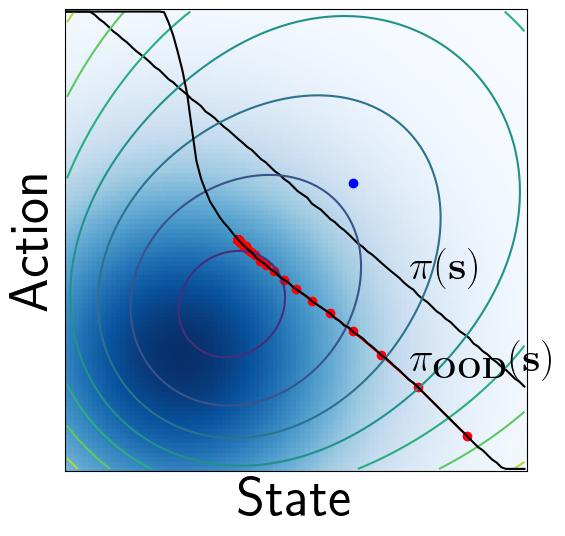
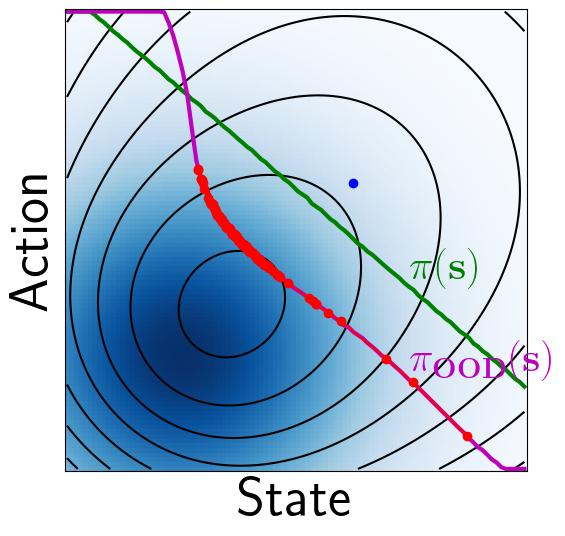
Update OOD

diff --git a/Safety/Codes/Epistemic/OOD_Policy2.py b/Safety/Codes/Epistemic/OOD_Policy2.py
@@ -89,50 +89,69 @@ for key in Pi:
 Lplot = {'Star' : 0.5*(sv-sref)**2 + 0.5*(av-aref)**2,
          'OOD'  : 0.5*(sv-sref)**2 + 0.5*(av-aref)**2 - weight*ModelDP}
 
-for case in Pi:
+for case in ['Map','Star','OOD']:
 
     print(case)
-    x0 = .75
-
-    SA = np.array([[x0, Policy(x0,Pi[case])]]).reshape(2,1)
-
-    for k in range(0,N):
-        splus   = A*SA[0,-1] + B*SA[1,-1] #+ np.random.normal(0,0.1)
-        aplus   = Policy(splus,Pi[case])
+    
+    if case == 'Map':
+        plt.close('all')
+        figID = plt.figure(1,figsize=(12,6))
+        ax1 = figID.add_subplot(111)
         
-        SA = np.concatenate((SA,np.array([splus,aplus]).reshape(2,1)),axis=1)
+        ax1.pcolormesh(xv, yv, ModelPlot, cmap='Blues')
+        ax1.set_aspect('equal', 'box')
+        ax1.set_xticks([])
+        ax1.set_yticks([])
+        ax1.set_xlabel('State',fontsize=FS)
+        ax1.set_ylabel('Action',fontsize=FS)
+        ax1.contour(sv,av,Lplot['Star'],colors='k',linestyles='solid')
+        ax1.plot(sref,aref,marker='o',color='b')
+        
+        figID.savefig('OOD_Map.jpeg', transparent=None, dpi='figure', format=None,metadata=None, bbox_inches='tight', pad_inches=0.1,facecolor='auto', edgecolor='auto', backend=None) #, bbox_inches='tight'
 
-
-    plt.close('all')
-    figID = plt.figure(1,figsize=(12,6))
-    ax1 = figID.add_subplot(111)
-
-    ax1.pcolormesh(xv, yv, ModelPlot, cmap='Blues')
-    ax1.set_aspect('equal', 'box')
-    ax1.set_xticks([])
-    ax1.set_yticks([])
-    ax1.set_xlabel('State',fontsize=FS)
-    ax1.set_ylabel('Action',fontsize=FS)
-
-    ax1.plot(sref,aref,marker='o',color='b')
-    ax1.plot(SA[0,:],SA[1,:],marker='o',color='r')
-    ax1.plot(spolplot,apolplot['Star'],color='k')
-    
-    
-    
-    if case == 'OOD':
-        ax1.contour(sv,av,Lplot['OOD'])
-        ax1.plot(spolplot,apolplot['OOD'],color='k')
-        ax1.text(.5,Policy(.5,Pi['OOD']),r'$\bf\pi_{OOD}(s)$',fontsize=30,verticalalignment='bottom',horizontalalignment='left')
     else:
-        ax1.contour(sv,av,Lplot['Star'])
-    
-    ax1.text(.5,Policy(.5,Pi['Star']),r'$\bf\pi(s)$',fontsize=30,verticalalignment='bottom',horizontalalignment='left')
+        x0 = .75
 
-    plt.show(block=False)
-    
-    
-    
+        SA = np.array([[x0, Policy(x0,Pi[case])]]).reshape(2,1)
 
-    figID.savefig('OOD_'+case+'.jpeg', transparent=None, dpi='figure', format=None,metadata=None, bbox_inches='tight', pad_inches=0.1,facecolor='auto', edgecolor='auto', backend=None) #, bbox_inches='tight'
+        for k in range(0,N):
+            splus   = A*SA[0,-1] + B*SA[1,-1] + np.random.normal(0,0.05)
+            aplus   = Policy(splus,Pi[case])
+            
+            SA = np.concatenate((SA,np.array([splus,aplus]).reshape(2,1)),axis=1)
+
+
+        plt.close('all')
+        figID = plt.figure(1,figsize=(12,6))
+        ax1 = figID.add_subplot(111)
+
+        ax1.pcolormesh(xv, yv, ModelPlot, cmap='Blues')
+        ax1.set_aspect('equal', 'box')
+        ax1.set_xticks([])
+        ax1.set_yticks([])
+        ax1.set_xlabel('State',fontsize=FS)
+        ax1.set_ylabel('Action',fontsize=FS)
+
+        ax1.plot(sref,aref,marker='o',color='b')
+        ax1.contour(sv,av,Lplot[case],colors='k',linestyles='solid')
+                
+        
+        ax1.plot(spolplot,apolplot['Star'],color='g',linewidth=3)
+        
+       
+        
+        if case == 'OOD':
+            ax1.plot(spolplot,apolplot['OOD'],color='m',linewidth=3)
+            ax1.text(.5,Policy(.5,Pi['OOD']),r'$\bf\pi_{OOD}(s)$',fontsize=30,verticalalignment='bottom',horizontalalignment='left',color='m')
+       
+        ax1.plot(SA[0,:],SA[1,:],marker='o',color='r')
+        
+        ax1.text(.5,Policy(.5,Pi['Star']),r'$\bf\pi(s)$',fontsize=30,verticalalignment='bottom',horizontalalignment='left',color='g')
+
+        plt.show(block=False)
+        
+        
+        
+
+        figID.savefig('OOD_'+case+'.jpeg', transparent=None, dpi='figure', format=None,metadata=None, bbox_inches='tight', pad_inches=0.1,facecolor='auto', edgecolor='auto', backend=None) #, bbox_inches='tight'
 

diff --git a/Safety/Presentation.tex b/Safety/Presentation.tex
@@ -275,9 +275,13 @@
 
       \only<1>
         {%
+         \includegraphics[width=\FS\textwidth,clip]{Codes/Epistemic/OOD_Map.jpeg}
+        }
+      \only<2>
+        {%
          \includegraphics[width=\FS\textwidth,clip]{Codes/Epistemic/OOD_Star.jpeg}
         }
-        \only<2>
+        \only<3->
         {%
          \includegraphics[width=\FS\textwidth,clip]{Codes/Epistemic/OOD_OOD.jpeg}
         }
